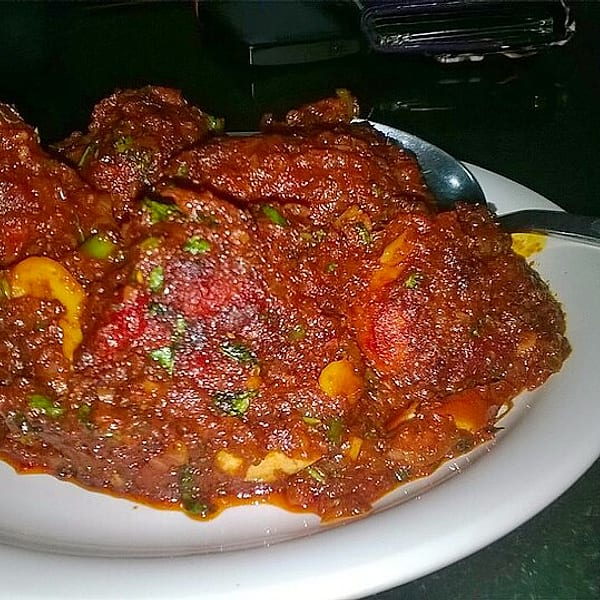
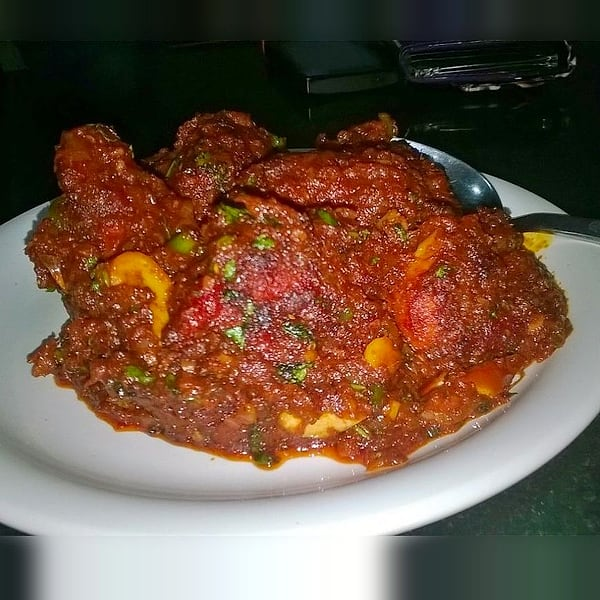
Menu: remove Veg Thali, real biryani photos, whole dish in every photo
- Veg Thali removed (menu data, website, AI, tests, docs); 16 dishes
- New biryani photos that show their dish: mutton pieces, boiled eggs, chicken (Wikimedia Commons, credited)
- All dish photos re-framed so the whole plate fits the round frame (edges extended where the original was tight)
- Dish detail popup shows the same round, uncropped photo

diff --git a/assets/menu/credits.html b/assets/menu/credits.html
@@ -19,16 +19,16 @@
 <body>
 <main>
   <h1>Photo credits</h1>
-  <p>The homepage and menu dish photos are for illustration. They come from <a href="https://commons.wikimedia.org/">Wikimedia Commons</a> and are used under the licenses below. They were cropped and resized for the menu, and the cropped versions are shared under the same licenses. <a href="../../index.html">Back to the menu</a></p>
+  <p>The homepage and menu dish photos are for illustration. They come from <a href="https://commons.wikimedia.org/">Wikimedia Commons</a> and are used under the licenses below. They were cropped, extended at the edges where needed, and resized so each whole dish fits the round menu frame; these edited versions are shared under the same licenses. <a href="../../index.html">Back to the menu</a></p>
   <div class="table-wrap">
   <table>
     <thead><tr><th></th><th>Dish</th><th>Original photo</th><th>Author</th><th>License</th></tr></thead>
     <tbody>
       <tr><td><img src="../site/hero-biryani.jpg" alt="" width="56" height="56"></td><td>Homepage photo (biryani)</td><td><a href="https://commons.wikimedia.org/wiki/File:Hyderabadi_Dum_Ki_Biryani.JPG">Hyderabadi Dum Ki Biryani.JPG</a></td><td>Miansari66</td><td><a href="https://creativecommons.org/publicdomain/zero/1.0/">CC0</a></td></tr>
-      <tr><td><img src="chicken-biryani.jpg" alt="" width="56" height="56"></td><td>Chicken Biryani</td><td><a href="https://commons.wikimedia.org/wiki/File:Chicken_Hyderabadi_Biryani.JPG">Chicken Hyderabadi Biryani.JPG</a></td><td>Dheerajk88</td><td><a href="https://creativecommons.org/licenses/by-sa/4.0/">CC BY-SA 4.0</a></td></tr>
-      <tr><td><img src="mutton-biryani.jpg" alt="" width="56" height="56"></td><td>Mutton Biryani</td><td><a href="https://commons.wikimedia.org/wiki/File:Mutton_Biryani..JPG">Mutton Biryani..JPG</a></td><td>Miansari66</td><td><a href="https://creativecommons.org/publicdomain/zero/1.0/">CC0</a></td></tr>
-      <tr><td><img src="egg-biryani.jpg" alt="" width="56" height="56"></td><td>Egg Biryani</td><td><a href="https://commons.wikimedia.org/wiki/File:Egg_biryani.JPG">Egg biryani.JPG</a></td><td>Nirav bulsara</td><td><a href="https://creativecommons.org/licenses/by-sa/4.0/">CC BY-SA 4.0</a></td></tr>
-      <tr><td><img src="special-biryani.jpg" alt="" width="56" height="56"></td><td>Special Biryani</td><td><a href="https://commons.wikimedia.org/wiki/File:Hyderabadi_Biryani_with_Raita,_Mirchi_Ka_Salan_and_Salad.JPG">Hyderabadi Biryani with Raita, Mirchi Ka Salan and Salad.JPG</a></td><td>Sumit Surai</td><td><a href="https://creativecommons.org/licenses/by-sa/4.0/">CC BY-SA 4.0</a></td></tr>
+      <tr><td><img src="chicken-biryani.jpg" alt="" width="56" height="56"></td><td>Chicken Biryani</td><td><a href="https://commons.wikimedia.org/wiki/File:Biryani-Kerala_style,_homecooked.jpg">Biryani-Kerala style, homecooked.jpg</a></td><td>Netha Hussain</td><td><a href="https://creativecommons.org/licenses/by-sa/4.0/">CC BY-SA 4.0</a></td></tr>
+      <tr><td><img src="mutton-biryani.jpg" alt="" width="56" height="56"></td><td>Mutton Biryani</td><td><a href="https://commons.wikimedia.org/wiki/File:Kolkata_mutton_biryani.jpg">Kolkata mutton biryani.jpg</a></td><td>DeepanjanGhosh</td><td><a href="https://creativecommons.org/licenses/by-sa/4.0/">CC BY-SA 4.0</a></td></tr>
+      <tr><td><img src="egg-biryani.jpg" alt="" width="56" height="56"></td><td>Egg Biryani</td><td><a href="https://commons.wikimedia.org/wiki/File:Egg_Biryani_and_Chicken_Chap.jpg">Egg Biryani and Chicken Chap.jpg</a></td><td>Meghattay Saha</td><td><a href="https://creativecommons.org/licenses/by-sa/4.0/">CC BY-SA 4.0</a></td></tr>
+      <tr><td><img src="special-biryani.jpg" alt="" width="56" height="56"></td><td>Special Biryani</td><td><a href="https://commons.wikimedia.org/wiki/File:Hyderabadi_Kachay_Gosht_Ki_Biryani.JPG">Hyderabadi Kachay Gosht Ki Biryani.JPG</a></td><td>Miansari66</td><td><a href="https://creativecommons.org/publicdomain/zero/1.0/">CC0</a></td></tr>
       <tr><td><img src="chicken-roast.jpg" alt="" width="56" height="56"></td><td>Chicken Roast</td><td><a href="https://commons.wikimedia.org/wiki/File:Chicken_ghee_roast.jpg">Chicken ghee roast.jpg</a></td><td>Hasna e</td><td><a href="https://creativecommons.org/licenses/by-sa/4.0/">CC BY-SA 4.0</a></td></tr>
       <tr><td><img src="chicken-fry.jpg" alt="" width="56" height="56"></td><td>Chicken Fry</td><td><a href="https://commons.wikimedia.org/wiki/File:Fried_drumstick_and_wing_chicken_1.jpg">Fried drumstick and wing chicken 1.jpg</a></td><td>Unknown (see source)</td><td><a href="https://creativecommons.org/publicdomain/zero/1.0/">CC0</a></td></tr>
       <tr><td><img src="chicken-handi.jpg" alt="" width="56" height="56"></td><td>Chicken Handi</td><td><a href="https://commons.wikimedia.org/wiki/File:Punjabi_Chicken_Handi.JPG">Punjabi Chicken Handi.JPG</a></td><td>Miansari66</td><td><a href="https://creativecommons.org/publicdomain/zero/1.0/">CC0</a></td></tr>
@@ -38,7 +38,6 @@
       <tr><td><img src="special-chicken-mutton-korma.jpg" alt="" width="56" height="56"></td><td>Special Chicken &amp; Mutton Korma</td><td><a href="https://commons.wikimedia.org/wiki/File:Mutton_rogan_Josh_(kashmiri_cuisine).jpg">Mutton rogan Josh (kashmiri cuisine).jpg</a></td><td>Rajatsingh8808</td><td><a href="https://creativecommons.org/licenses/by-sa/4.0/">CC BY-SA 4.0</a></td></tr>
       <tr><td><img src="fish-roast.jpg" alt="" width="56" height="56"></td><td>Fish Roast</td><td><a href="https://commons.wikimedia.org/wiki/File:Malwani_fish_fry.jpg">Malwani fish fry.jpg</a></td><td>Maildeshraj</td><td><a href="https://creativecommons.org/licenses/by-sa/4.0/">CC BY-SA 4.0</a></td></tr>
       <tr><td><img src="special-thali.jpg" alt="" width="56" height="56"></td><td>Special Thali</td><td><a href="https://commons.wikimedia.org/wiki/File:Non-veg_Thali_6009.JPG">Non-veg Thali 6009.JPG</a></td><td>Biswarup Ganguly</td><td><a href="https://creativecommons.org/licenses/by-sa/3.0/">CC BY-SA 3.0</a></td></tr>
-      <tr><td><img src="veg-thali.jpg" alt="" width="56" height="56"></td><td>Veg Thali</td><td><a href="https://commons.wikimedia.org/wiki/File:Traditional_Bengali_Thali_(veg).jpg">Traditional Bengali Thali (veg).jpg</a></td><td>Chaitali Sarkar</td><td><a href="https://creativecommons.org/licenses/by-sa/4.0/">CC BY-SA 4.0</a></td></tr>
       <tr><td><img src="jowar-roti.jpg" alt="" width="56" height="56"></td><td>Jowar Roti</td><td><a href="https://commons.wikimedia.org/wiki/File:Uncultivated_Greens_with_Jowar_Roti_-_Zaheerabad.jpg">Uncultivated Greens with Jowar Roti - Zaheerabad.jpg</a></td><td>అనిల్ ఉప్పలపాటి</td><td><a href="https://creativecommons.org/licenses/by-sa/4.0/">CC BY-SA 4.0</a></td></tr>
       <tr><td><img src="bajra-roti.jpg" alt="" width="56" height="56"></td><td>Bajra Roti</td><td><a href="https://commons.wikimedia.org/wiki/File:Bajra_Roti_and_Dal.JPG">Bajra Roti and Dal.JPG</a></td><td>Jay87.mehta</td><td><a href="https://creativecommons.org/licenses/by-sa/4.0/">CC BY-SA 4.0</a></td></tr>
       <tr><td><img src="makka-roti.jpg" alt="" width="56" height="56"></td><td>Makka Roti</td><td><a href="https://commons.wikimedia.org/wiki/File:Makki_Di_Roti.JPG">Makki Di Roti.JPG</a></td><td>Vsigamany</td><td><a href="https://creativecommons.org/licenses/by-sa/4.0/">CC BY-SA 4.0</a></td></tr>

diff --git a/styles.css b/styles.css
@@ -232,7 +232,8 @@ h2 { margin: 0; font-size: clamp(36px, 4vw, 53px); line-height: 1.1; letter-spac
 .item-sheet::backdrop { background: rgba(0,0,0,.7); backdrop-filter: blur(3px); }
 .item-sheet-content { position: relative; }
 .item-sheet-close { position: absolute; z-index: 1; top: 15px; right: 15px; border-color: rgba(255,255,255,.35); border-radius: 50%; color: white; background: var(--close-bg); }
-.item-sheet-image { display: block; width: 100%; max-height: 330px; aspect-ratio: 1.8; object-fit: cover; background: var(--panel-2); }
+/* Round like the menu list: the photos are framed so the whole dish fits the circle. */
+.item-sheet-image { display: block; width: min(260px, 62%); aspect-ratio: 1; margin: 34px auto 0; border-radius: 50%; object-fit: cover; background: var(--panel-2); box-shadow: 0 0 0 4px var(--panel), 0 0 0 5px rgba(229,174,74,.4), 0 14px 34px rgba(0,0,0,.35); }
 .item-sheet-body { padding: 25px 28px 28px; }
 .item-sheet-body .eyebrow { margin-bottom: 8px; }
 .item-sheet-body h2 { padding-right: 35px; font-size: 32px; }
@@ -347,7 +348,7 @@ h2 { margin: 0; font-size: clamp(36px, 4vw, 53px); line-height: 1.1; letter-spac
   .cart-drawer { padding: 21px; }
   .item-sheet { width: 100%; }
   .item-sheet-body { padding: 22px 20px max(22px, env(safe-area-inset-bottom)); }
-  .item-sheet-image { max-height: 280px; }
+  .item-sheet-image { width: min(220px, 60%); margin-top: 28px; }
   .item-sheet-actions { gap: 9px; }
   .item-sheet-confirm { font-size: 13px; }
   .checkout-dialog, .staff-dialog { padding: 22px; }
@@ -375,7 +376,6 @@ h2 { margin: 0; font-size: clamp(36px, 4vw, 53px); line-height: 1.1; letter-spac
 .menu-card h3 { margin-bottom: 4px; font-size: 19px; line-height: 1.25; }
 .menu-card p { max-width: none; display: -webkit-box; -webkit-line-clamp: 2; -webkit-box-orient: vertical; overflow: hidden; }
 .dish-price { margin-top: 8px; }
-.item-sheet-image { width: calc(100% - 48px); max-height: 240px; margin: 24px auto 0; aspect-ratio: 1.6; border-radius: 16px; }
 @media (max-width: 900px) {
   .menu-grid { grid-template-columns: 1fr; }
 }
@@ -385,7 +385,6 @@ h2 { margin: 0; font-size: clamp(36px, 4vw, 53px); line-height: 1.1; letter-spac
   .menu-image-wrap { flex-basis: 96px; width: 96px; height: 96px; aspect-ratio: 1; }
   .menu-card h3 { font-size: 17px; }
   .menu-card p { font-size: 12px; }
-  .item-sheet-image { width: calc(100% - 32px); max-height: 200px; margin-top: 16px; }
 }
 
 /* ---------- Hero photo in a rounded frame (both themes) ----------

diff --git a/app.js b/app.js
@@ -11,7 +11,7 @@
   const CART_STORAGE_KEY = `chinu-cart:${storageScope}`;
   const ORDER_STORAGE_KEY = `chinu-order:${storageScope}`;
   // Approved dish names from the restaurant banners (same list as ai-assistant/data/restaurant-knowledge-base.json).
-  // Veg Thali Rs 100 is printed on the banner; other prices are team estimates until the restaurant confirms.
+  // Prices are team estimates until the restaurant confirms them.
   const MENU_SEED = [
     { id: "chicken-biryani", name: "Chicken Biryani", description: "Rice biryani cooked with chicken pieces.", price: 160, category: "Biryani", tag: "", imageUrl: "assets/menu/chicken-biryani.jpg", available: true },
     { id: "mutton-biryani", name: "Mutton Biryani", description: "Rice biryani cooked with mutton pieces.", price: 240, category: "Biryani", tag: "", imageUrl: "assets/menu/mutton-biryani.jpg", available: true },
@@ -26,7 +26,6 @@
     { id: "special-chicken-mutton-korma", name: "Special Chicken & Mutton Korma", description: "House special korma with both chicken and mutton.", price: 350, category: "Mutton", tag: "House special", imageUrl: "assets/menu/special-chicken-mutton-korma.jpg", available: true },
     { id: "fish-roast", name: "Fish Roast", description: "Roasted whole fish served with lemon.", price: 220, category: "Fish", tag: "", imageUrl: "assets/menu/fish-roast.jpg", available: true },
     { id: "special-thali", name: "Special Thali", description: "Full non-veg thali with curry, rice, roti and sides. Ask staff for today's thali items.", price: 200, category: "Thali", tag: "House special", imageUrl: "assets/menu/special-thali.jpg", available: true },
-    { id: "veg-thali", name: "Veg Thali", description: "Vegetarian thali with sabzi, dal, rice and roti.", price: 100, category: "Thali", tag: "Vegetarian", imageUrl: "assets/menu/veg-thali.jpg", available: true },
     { id: "jowar-roti", name: "Jowar Roti", description: "Roti made from jowar (sorghum) flour.", price: 20, category: "Roti", tag: "Vegetarian", imageUrl: "assets/menu/jowar-roti.jpg", available: true },
     { id: "bajra-roti", name: "Bajra Roti", description: "Roti made from bajra (pearl millet) flour.", price: 20, category: "Roti", tag: "Vegetarian", imageUrl: "assets/menu/bajra-roti.jpg", available: true },
     { id: "makka-roti", name: "Makka Roti", description: "Roti made from makka (maize) flour.", price: 25, category: "Roti", tag: "Vegetarian", imageUrl: "assets/menu/makka-roti.jpg", available: true }

diff --git a/test/website-compat.test.js b/test/website-compat.test.js
@@ -53,7 +53,7 @@ const placeOrder = async (items) =>
 
 test('seed loads the shared menu and tables, and is safe to run twice', async () => {
   await seed({ log: quiet });
-  assert.equal(await MenuItem.countDocuments(), 17);
+  assert.equal(await MenuItem.countDocuments(), 16);
   assert.equal(await Table.countDocuments(), 10);
   const biryani = await MenuItem.findOne({ name: 'Chicken Biryani' }).populate('category');
   assert.equal(biryani.price, 160);
@@ -64,7 +64,7 @@ test('seed loads the shared menu and tables, and is safe to run twice', async ()
 test('GET /api/menu keeps data.menu and adds the website `items` list', async () => {
   const res = await request(app).get('/api/menu');
   assert.equal(res.status, 200);
-  assert.equal(res.body.data.menu.length, 17);
+  assert.equal(res.body.data.menu.length, 16);
   const item = res.body.items.find((i) => i.name === 'Mutton Handi');
   assert.deepEqual(Object.keys(item).sort(), ['available', 'category', 'description', 'id', 'imageUrl', 'name', 'price']);
   assert.equal(item.category, 'Mutton');
@@ -90,11 +90,11 @@ test('POST /api/orders rejects bad or unavailable dishes with 400, not a server 
 });
 
 test('customers can track their order by Order ID without logging in; staff lookup stays protected', async () => {
-  const { body } = await placeOrder([{ menuItemId: await menuId('Veg Thali'), quantity: 1 }]);
+  const { body } = await placeOrder([{ menuItemId: await menuId('Egg Biryani'), quantity: 1 }]);
   const res = await request(app).get(`/api/orders/${body.orderId}`);
   assert.equal(res.status, 200);
   assert.equal(res.body.status, 'Pending');
-  assert.equal(res.body.total, 105);
+  assert.equal(res.body.total, 126);
   assert.equal(res.body.customerName, undefined);
 
   await Order.updateOne({ orderId: body.orderId }, { status: 'Served/Completed' });

diff --git a/ai-assistant/tests/assistant.test.js b/ai-assistant/tests/assistant.test.js
@@ -158,11 +158,11 @@ describe('guardrails', () => {
   const ok = (reply, extra = {}) => ({ reply, item_ids: [], needs_staff: false, ...extra });
 
   test('extracts prices written different ways', () => {
-    assert.deepEqual(extractPrices('Veg Thali is ₹100, biryani Rs. 180 and 250/-'), [100, 180, 250]);
+    assert.deepEqual(extractPrices('Egg Biryani is ₹120, biryani Rs. 180 and 250/-'), [120, 180, 250]);
   });
 
   test('accepts a real menu price', () => {
-    assert.equal(validateLlmResult(ok('Veg Thali is ₹100.'), kb, 'veg thali price?').ok, true);
+    assert.equal(validateLlmResult(ok('Egg Biryani is ₹120.'), kb, 'egg biryani price?').ok, true);
   });
 
   test('rejects an invented price', () => {
@@ -184,7 +184,7 @@ describe('guardrails', () => {
   });
 
   test("allows repeating the customer's own budget", () => {
-    assert.equal(validateLlmResult(ok('Under ₹300 you could try the Veg Thali (₹100).'), kb, 'something under 300').ok, true);
+    assert.equal(validateLlmResult(ok('Under ₹300 you could try the Egg Biryani (₹120).'), kb, 'something under 300').ok, true);
   });
 
   test('rejects made-up offers', () => {
@@ -207,10 +207,10 @@ describe('assistant', () => {
 
   test('offline mode answers from the knowledge base', async () => {
     const assistant = createAssistant({ loadKb, logger: silent });
-    const res = await assistant.chat({ message: 'veg thali kitne ka hai' });
+    const res = await assistant.chat({ message: 'egg biryani kitne ka hai' });
     assert.equal(res.source, 'offline');
-    assert.match(res.reply, /₹100/);
-    assert.equal(res.items[0].id, 'veg-thali');
+    assert.match(res.reply, /₹120/);
+    assert.equal(res.items[0].id, 'egg-biryani');
   });
 
   test('says an off-menu dish is not available and offers alternatives', async () => {

diff --git a/test/admin-dashboard.test.js b/test/admin-dashboard.test.js
@@ -149,7 +149,7 @@ test('kitchen status updates reach the customer, with history and cancel rules',
 });
 
 test('counter payments are recorded and show on the payments page', async () => {
-  const placed = await websiteOrder('T08', 'Veg Thali', 2);
+  const placed = await websiteOrder('T08', 'Egg Biryani', 2);
   const id = await adminOrderId(placed.orderId);
   assert.equal((await as(employeeToken).patch(`/api/admin/orders/${id}/payment`, { status: 'Paid', method: 'Bitcoin' })).status, 400);
 
@@ -162,7 +162,7 @@ test('counter payments are recorded and show on the payments page', async () => 
 
   const payments = await as(managerToken).get('/api/admin/payments?status=Paid&method=UPI');
   const row = payments.body.data.find((p) => p.orderNumber === placed.orderId);
-  assert.equal(row.amount, 210);
+  assert.equal(row.amount, 252);
   assert.equal(row.tableNumber, 'T08');
   assert.ok(row.paidAt);
 });
@@ -170,7 +170,7 @@ test('counter payments are recorded and show on the payments page', async () => 
 test('dashboard stats count today\'s orders, revenue and busy tables', async () => {
   const stats = (await as(employeeToken).get('/api/admin/dashboard/stats')).body.data;
   assert.equal(stats.todayOrders, 4);
-  assert.equal(stats.todayRevenue, 210);
+  assert.equal(stats.todayRevenue, 252);
   assert.equal(stats.pendingOrders, 2); // T05, and T08 (paid but not started yet)
   assert.equal(stats.completedOrders, 1);
   assert.equal(stats.cancelledOrders, 1);

diff --git a/scripts/seed.js b/scripts/seed.js
@@ -1,6 +1,6 @@
 // Loads the shared restaurant menu and the dining tables into MongoDB. Safe to run more than once.
 //
-//   npm run seed                 # 17 dishes + tables T01-T10
+//   npm run seed                 # 16 dishes + tables T01-T10
 //   SEED_TABLES=15 npm run seed  # tables T01-T15
 //
 // The menu comes from ai-assistant/data/restaurant-knowledge-base.json, the same list the website

diff --git a/ai-assistant/docs/AI_DESIGN_AND_TESTING.md b/ai-assistant/docs/AI_DESIGN_AND_TESTING.md
@@ -102,7 +102,7 @@ The offline answers below were run against the current knowledge base. AI-mode a
 | 2 | `suggest chicken for dinner` | 3 available chicken dishes, plus a note that some prices need confirming |
 | 3 | `biryani under 200` | Egg Biryani (₹120), Chicken Biryani (₹160), Special Biryani (₹200). Mutton Biryani (₹240) is left out. Checked live with Gemini on 9 Oct. |
 | 4 | `anda biryani milega?` | "Yes, Egg Biryani is available." + Add button |
-| 5 | `veg thali kitne ka hai` | "Veg Thali: ₹100" |
+| 5 | `egg biryani kitne ka hai` | "Egg Biryani: ₹120" |
 | 6 | `mutton paya korma price` | "price not listed - please ask staff", `needs_staff: true` |
 | 7 | `चिकन हाण्डी` | Chicken Handi description, availability, price status |
 | 8 | `do you have butter chicken?` | "Sorry, butter chicken is not on our menu." + our chicken dishes |
@@ -124,7 +124,7 @@ The offline answers below were run against the current knowledge base. AI-mode a
 
 ## 7. Limitations
 
-- **Prices are estimates**: only Veg Thali (₹100) is printed on the banners. The other prices were estimated by the team from typical small-town dhaba prices in Madhya Pradesh so the prototype is usable, and must be replaced with the restaurant-approved prices before launch. Live checks on 9 Oct with these prices: "biryani under 200", "mutton dish under 300 for dinner", "chicken handi kitne ka hai" (₹240) and "2 people, budget 500" all gave correct, in-budget answers.
+- **Prices are estimates**: all prices were estimated by the team from typical small-town dhaba prices in Madhya Pradesh so the prototype is usable, and must be replaced with the restaurant-approved prices before launch. Live checks on 9 Oct with these prices: "biryani under 200", "mutton dish under 300 for dinner", "chicken handi kitne ka hai" (₹240) and "2 people, budget 500" all gave correct, in-budget answers.
 - **Descriptions** are short neutral text written from the dish names and banner photos. They don't cover spice level or portion size, and the assistant won't claim those.
 - **Off-menu detection** uses a fixed list of common dishes. The model could still name a rarer dish that isn't on the menu. The prompt forbids it, and item ids are always filtered, so no Add button can appear for it.
 - **Offline mode** is keyword-based. Unusual phrasing gets the safe fallback instead of an answer.
@@ -134,7 +134,6 @@ The offline answers below were run against the current knowledge base. AI-mode a
   - "suggest chicken for dinner": 4 chicken dishes, price to be confirmed with staff
   - "anda biryani milega?": "Haan, Egg Biryani available hai!…" (answered in Hinglish)
   - "do you have butter chicken?": "We don't have butter chicken, but you can try our Chicken Handi or Chicken Roast."
-  - "veg thali kitne ka hai": "Veg Thali ki keemat 100 rupees hai."
   - "mutton handi price?": price not listed, staff can confirm
   - "can I book a table for 10?": points to staff, `needs_staff: true`
 

diff --git a/ai-assistant/README.md b/ai-assistant/README.md
@@ -91,7 +91,7 @@ Structured recommendations without free text, e.g. for a "Suggest for me" button
 
 ### `GET /api/ai/health`
 
-`{ "status": "ok", "mode": "ai" | "offline", "kb_version": "0.1.0-draft", "items": 17, "live_menu": false }` for DevOps health checks.
+`{ "status": "ok", "mode": "ai" | "offline", "kb_version": "0.1.0-draft", "items": 16, "live_menu": false }` for DevOps health checks.
 
 ### `GET /api/ai/knowledge-base`
 
@@ -150,13 +150,13 @@ Add one script tag to the customer menu page:
 
 ## Status and open items
 
-- [ ] **Prices are estimates**: only Veg Thali (₹100) is printed on the banners. The other 16 prices were estimated by the team from typical small-town dhaba prices in Madhya Pradesh (Oct 2026) so the prototype is usable. Replace them with the restaurant-approved price list before launch (or load the real prices into the backend: the AI picks them up through `MENU_API_URL`).
+- [ ] **Prices are estimates**: all 16 prices were estimated by the team from typical small-town dhaba prices in Madhya Pradesh (Oct 2026) so the prototype is usable. Replace them with the restaurant-approved price list before launch (or load the real prices into the backend: the AI picks them up through `MENU_API_URL`).
 
   | Dish | ₹ | Dish | ₹ | Dish | ₹ |
   |---|---|---|---|---|---|
   | Chicken Biryani | 160 | Chicken Handi | 240 | Fish Roast | 220 |
   | Mutton Biryani | 240 | Mutton Handi | 320 | Special Thali | 200 |
-  | Egg Biryani | 120 | Mutton Korma | 300 | Veg Thali (banner) | 100 |
+  | Egg Biryani | 120 | Mutton Korma | 300 |  |  |
   | Special Biryani | 200 | Mutton Paya Korma | 260 | Jowar Roti | 20 |
   | Chicken Roast | 200 | Special Chicken & Mutton Korma | 350 | Bajra Roti | 20 |
   | Chicken Fry | 180 | | | Makka Roti | 25 |

diff --git a/README.md b/README.md
@@ -38,7 +38,7 @@ Also in the repository: `assets/photos/` (the restaurant's original photos), `as
                                          └────────► Razorpay (payment links)
 ```
 
-- The **menu** (17 dishes, names and prices) comes from one file, `ai-assistant/data/restaurant-knowledge-base.json`. `npm run seed` loads it into the database, and the website and the AI read the same dishes from the backend.
+- The **menu** (16 dishes, names and prices) comes from one file, `ai-assistant/data/restaurant-knowledge-base.json`. `npm run seed` loads it into the database, and the website and the AI read the same dishes from the backend.
 - The **table number** comes from the QR link (`?table=T05`) and travels with the order to the dashboard.
 - **Totals and payments are checked on the server**: the browser's prices are never trusted, and Razorpay is asked directly whether an order was paid.
 
@@ -130,7 +130,7 @@ Render free services sleep after ~15 minutes idle; the first request afterwards 
 
 ## Status and known gaps
 
-- **Prices:** Veg Thali ₹100 is from the restaurant's banner. The other 16 prices are team estimates until the restaurant confirms them.
+- **Prices:** all 16 prices are team estimates until the restaurant confirms them.
 - **Contact details:** the opening hours and phone number on the website are placeholders. The exact address isn't known yet.
 - **Payments:** Razorpay **test mode** only. Live payments need the restaurant's own Razorpay account.
 - **Order types:** dine-in only. Takeaway/delivery and partial/refunded payments appear in the dashboard UI but aren't produced yet.

diff --git a/docs/BACKEND.md b/docs/BACKEND.md
@@ -212,7 +212,7 @@ Used by the restaurant dashboard in `admin-dashboard/` (contract in `admin-dashb
 npm run seed
 ```
 
-Loads the 17 dishes and 6 categories from `ai-assistant/data/restaurant-knowledge-base.json` (the same menu the website and AI use) and tables `T01`–`T10` (`SEED_TABLES=15` for more). QR link for a table: `https://<website>/?table=T01`. Set `SEED_ADMIN_EMAIL` and `SEED_ADMIN_PASSWORD` to also create an admin login. Running it again updates the same records.
+Loads the 16 dishes and 6 categories from `ai-assistant/data/restaurant-knowledge-base.json` (the same menu the website and AI use) and tables `T01`–`T10` (`SEED_TABLES=15` for more). QR link for a table: `https://<website>/?table=T01`. Set `SEED_ADMIN_EMAIL` and `SEED_ADMIN_PASSWORD` to also create an admin login. Running it again updates the same records.
 
 ## QR Table Ordering Flow
 
